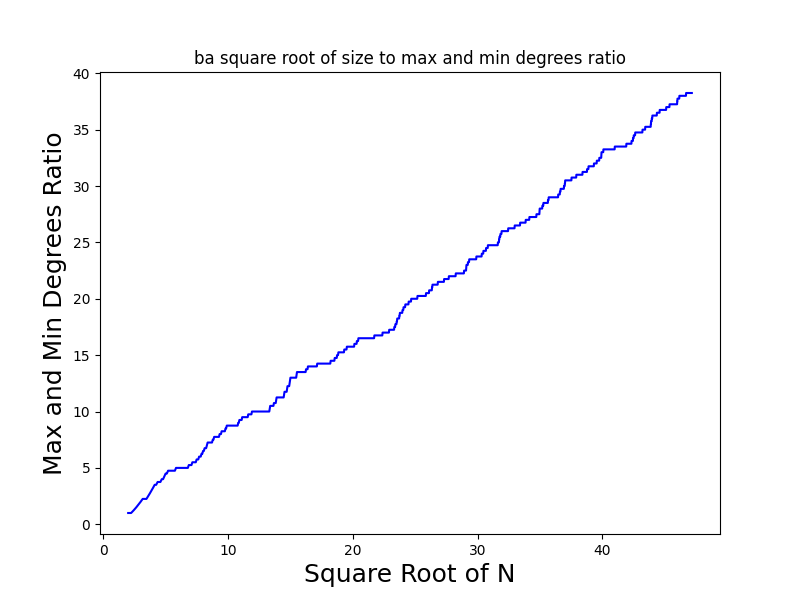
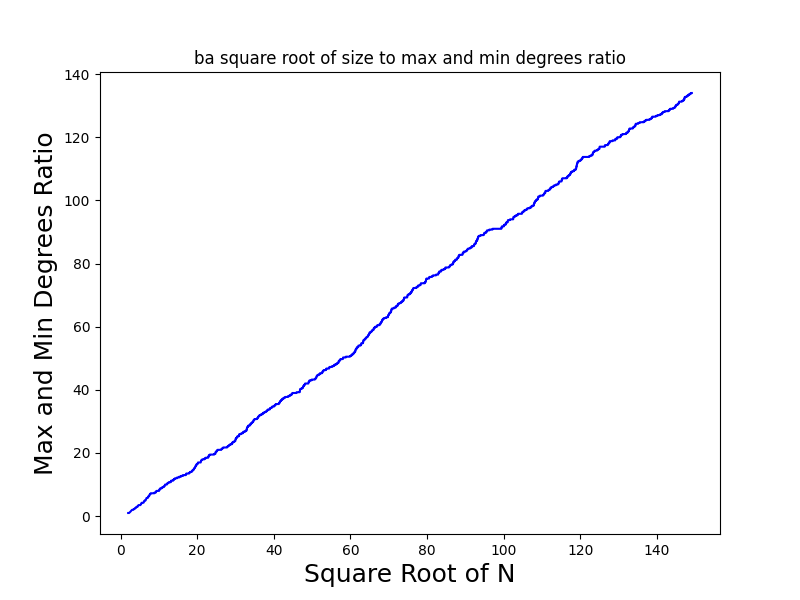
3 23

diff --git a/Networks3/ba.py b/Networks3/ba.py
@@ -3,12 +3,9 @@ from matplotlib import pyplot as plt
 import numpy as np
 
 class Node:
-    def __init__(self, fitness: int = 0):
+    def __init__(self, fitness: float = 0.0):
         self.fitness: float = fitness
         self.neighbors: list[Node] = []
-
-        if self.fitness == 0:
-            self.fitness = 1#np.random.randint(1, 11)
 
     def add_neighbor(self, neighbor: 'Node'):
         self.neighbors.append(neighbor)
@@ -38,15 +35,33 @@ def has_double(selected_indices: np.ndarray) -> bool:
         
     return is_double
 
-def run_ba_model(size: int, kernel_size: int, with_fitness: bool = False):
-    file_name_fitness_part: str = "_with_fitness" if with_fitness else ""
+def run_ba_model(size: int, kernel_size: int, fitness: tuple = None):
+    fitness_param: float = 0.0
+    fitness_method: str = None
+
+    if isinstance(fitness, tuple) and len(fitness) == 2:
+        fitness_method = fitness[0]
+        fitness_param = fitness[1]
+
+    with_fitness: str = f"{fitness_method}_{fitness_param}" if fitness_method and fitness_param > 0.0 else ""
+
+    file_name_fitness_part: str = f"_with_fitness_{with_fitness}" if with_fitness else ""
 
     list_nodes: list[Node] = create_kernel(kernel_size)
 
     square_root_size_and_ratio: list[tuple[float, float]] = []
 
     for step in range(1, size):
-        new_node: Node = Node(fitness=step * 100000)
+        fitness_value: float = 0.0
+
+        if fitness_method == 'exp':
+            fitness_value = math.exp(step * fitness_param)
+        elif fitness_method == 'mul':
+            fitness_value = step * fitness_param
+        elif fitness_method == 'pol':
+            fitness_value = math.pow(step, fitness_param)
+
+        new_node: Node = Node(fitness=fitness_value)
 
         list_indices: list[int] = [index for index in range(len(list_nodes))]
 
@@ -77,7 +92,7 @@ def run_ba_model(size: int, kernel_size: int, with_fitness: bool = False):
     
         print(f"size={len(list_nodes)}, ratio={ratio}, sqrt_size={square_root_size}, k_avg={k_avg}")
 
-        probabilities = prepare_probabilities(list_nodes, kernel_size, step, with_fitness=with_fitness)
+        probabilities = prepare_probabilities(list_nodes, kernel_size, step)
 
         selected_indices = np.random.choice(list_indices, replace=False, size=kernel_size, p=probabilities)
 
@@ -351,13 +366,13 @@ def run_ba_model(size: int, kernel_size: int, with_fitness: bool = False):
     plt.savefig(f"ba_model{file_name_fitness_part}.png")
 
 
-def prepare_probabilities(list_nodes: list[Node], kernel_size: int, step: int, with_fitness: bool = False) -> np.ndarray:
+def prepare_probabilities(list_nodes: list[Node], kernel_size: int, step: int) -> np.ndarray:
     total_links_weight: int = 0
 
     for node in list_nodes:
         node_weight: int = len(node.neighbors)
 
-        if with_fitness:
+        if node.fitness != 0.0:
             node_weight *= node.fitness
 
         total_links_weight += node_weight
@@ -369,7 +384,7 @@ def prepare_probabilities(list_nodes: list[Node], kernel_size: int, step: int, w
 
         node_weight: int = len(node.neighbors)
 
-        if with_fitness:
+        if node.fitness != 0.0:
             node_weight *= node.fitness
 
         probabilities[i] = node_weight / total_links_weight
@@ -392,5 +407,9 @@ def create_kernel(kernel_size: int) -> list[Node]:
 
     return list_of_nodes
 
-#run_ba_model(size=2222, kernel_size=4)
-run_ba_model(size=2222, kernel_size=4, with_fitness=True)
+size=22222
+
+run_ba_model(size=size, kernel_size=4)
+run_ba_model(size=size, kernel_size=4, fitness=('exp', 5/size))
+run_ba_model(size=size, kernel_size=4, fitness=('mul', 10))
+run_ba_model(size=size, kernel_size=4, fitness=('pol', 10))
